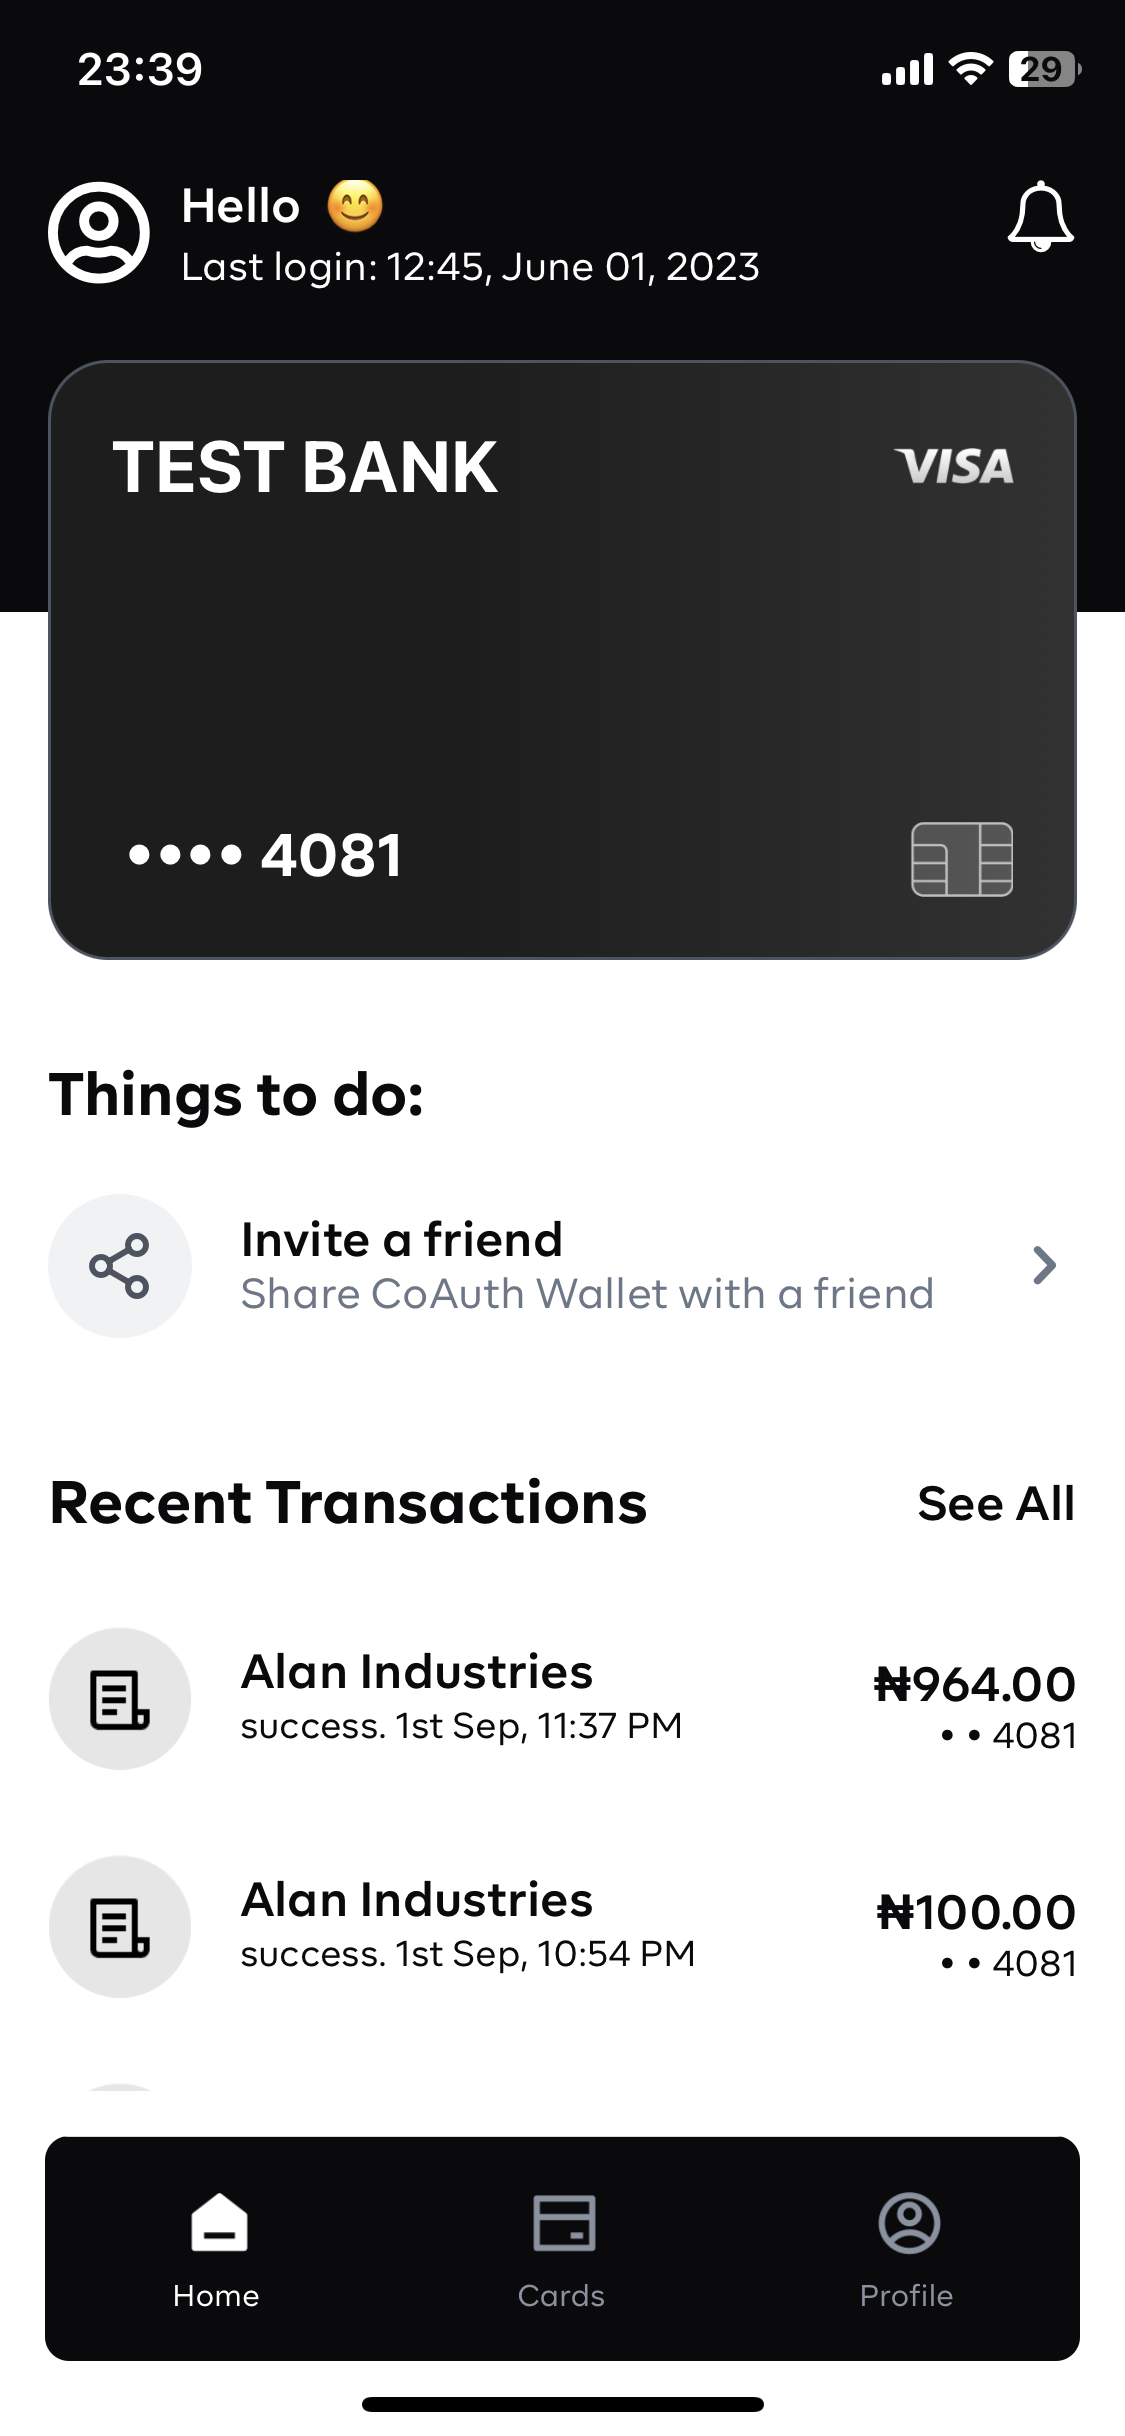
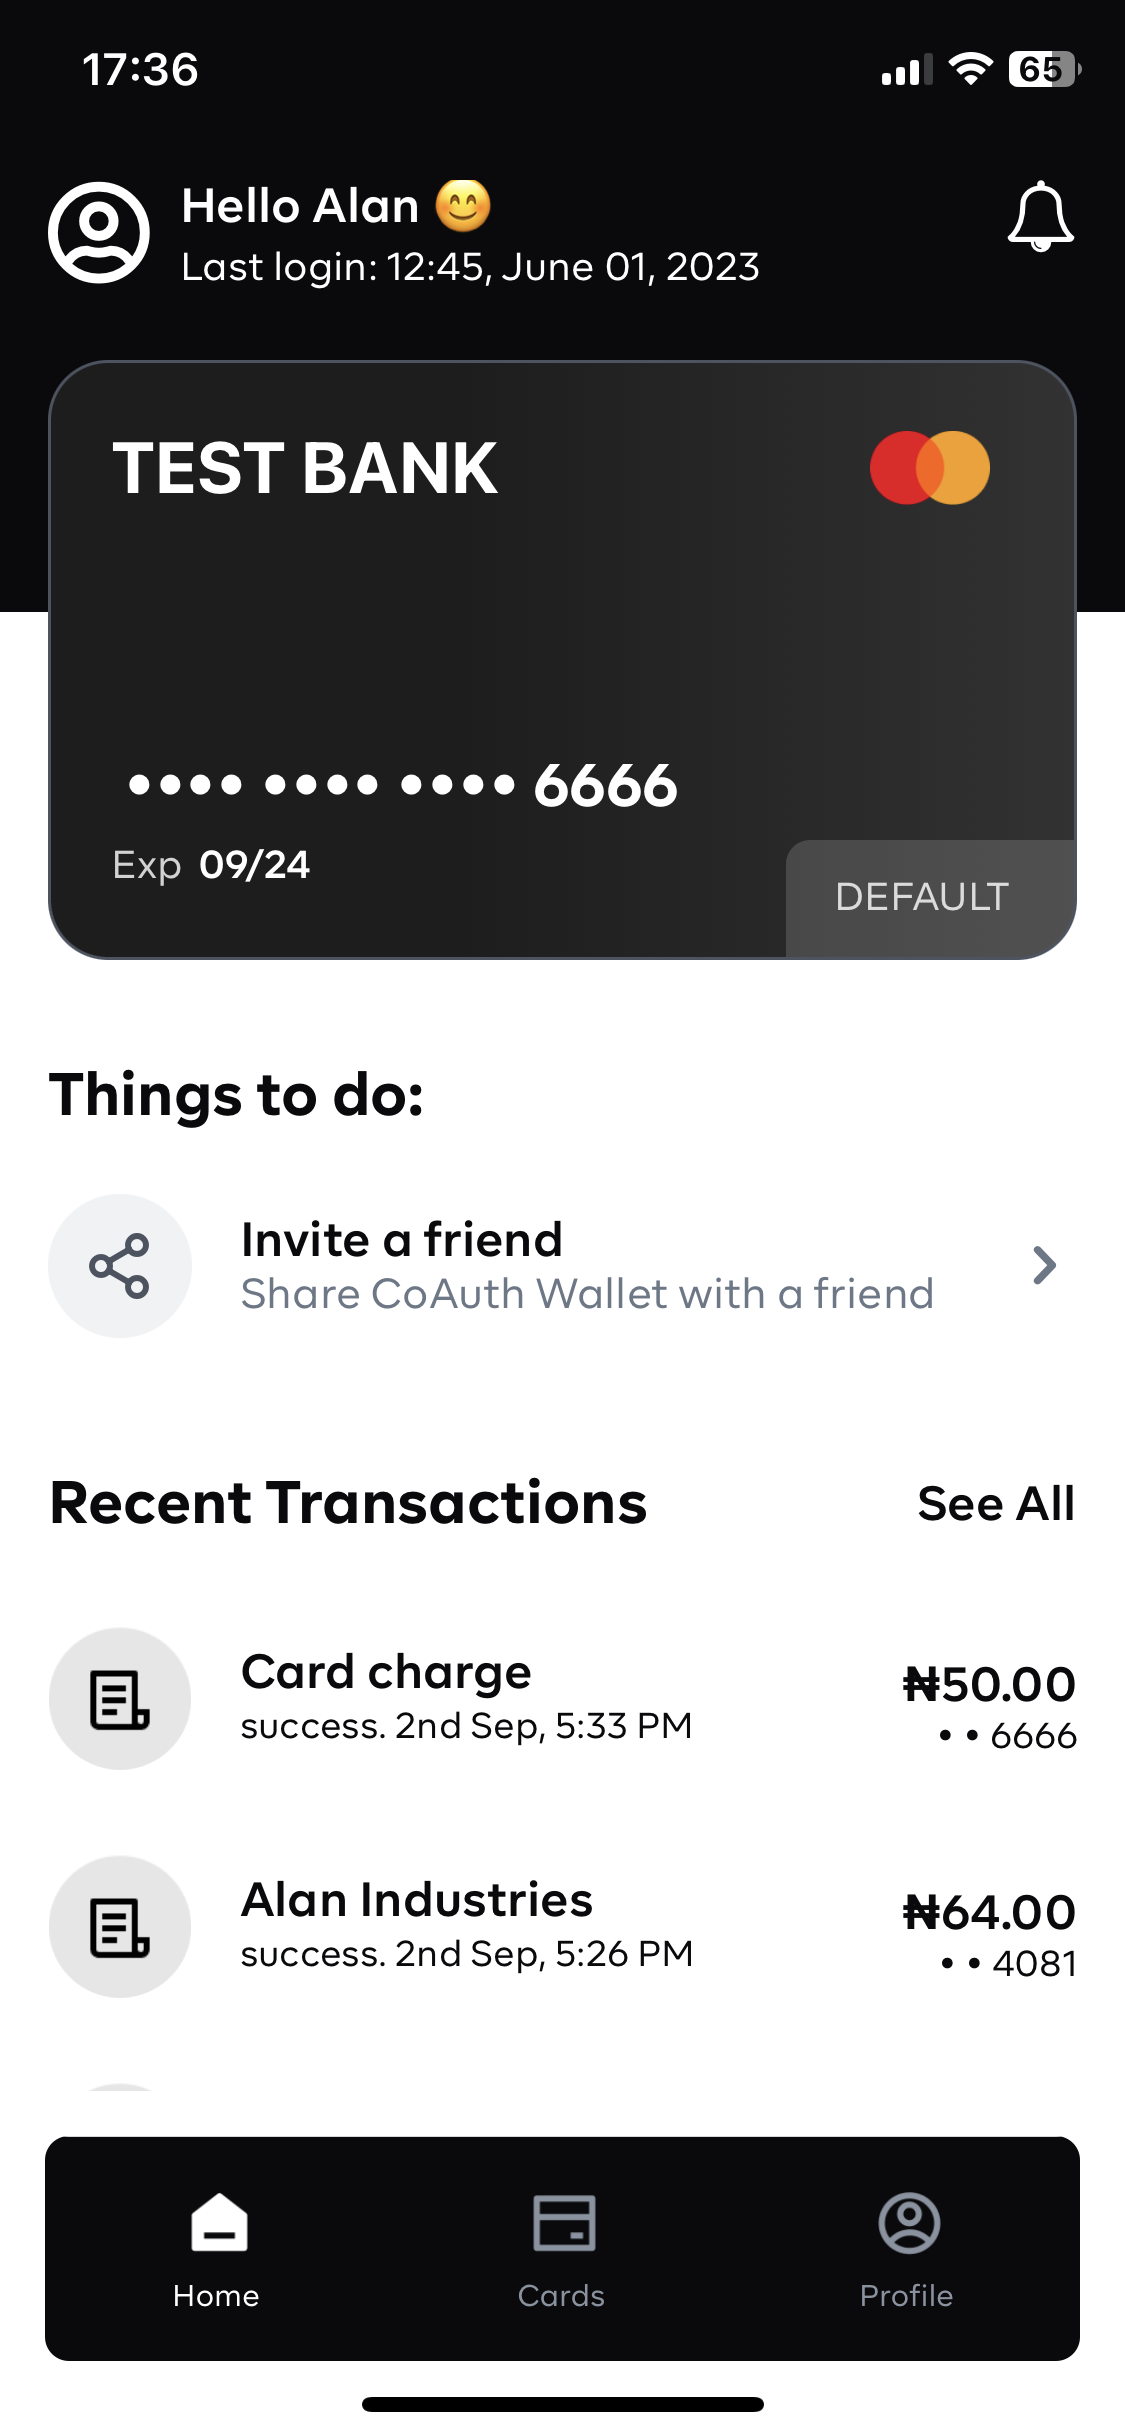
feat: add coauth website

diff --git a/index.html b/index.html
@@ -241,7 +241,11 @@
 
       <div class="px-5">
         <div class="project">
-          <h1><a href="https://coauth-website-web.vercel.app/" target="_blank">Coauth</a></h1>
+          <h1>
+            <a href="https://coauth-website-web.vercel.app/" target="_blank"
+              >Coauth</a
+            >
+          </h1>
 
           <div class="grid-3">
             <div class="grid-item">
@@ -249,12 +253,15 @@
               <h3 class="text-center mt-2">Home Page</h3>
             </div>
             <div class="grid-item">
-              <img src="images/coauth-authorization.PNG" alt="Nairabox-cinemas" />
+              <img
+                src="images/coauth-authorization.PNG"
+                alt="Nairabox-cinemas"
+              />
               <h3 class="text-center mt-2">Authorization Page</h3>
             </div>
             <div class="grid-item">
-              <img src="images/coauth-card-details.PNG" alt="Nairabox-admin" />
-              <h3 class="text-center mt-2">Card Details Page</h3>
+              <img src="images/coauth-default-card.PNG" alt="Nairabox-admin" />
+              <h3 class="text-center mt-2">Set Card Default Flow</h3>
             </div>
             <div class="grid-item">
               <img src="images/coauth-receipt.PNG" alt="Nairabox-welcome" />
@@ -280,7 +287,10 @@
               <h3 class="text-center mt-2">Swap Page</h3>
             </div>
             <div class="grid-item">
-              <img src="images/aladdin-transaction.PNG" alt="Nairabox-welcome" />
+              <img
+                src="images/aladdin-transaction.PNG"
+                alt="Nairabox-welcome"
+              />
               <h3 class="text-center mt-2">Transactions screen</h3>
             </div>
           </div>
@@ -334,6 +344,26 @@
 
         <div class="project">
           <h1>
+            <a href="https://coauth.app/" target="_blank">Coauth Website</a>
+          </h1>
+
+          <div class="grid-2">
+            <div class="grid-item">
+              <img src="images/coauth-web-home.jpg" alt="Coauth-home" />
+              <h3 class="text-center mt-2">Home Page</h3>
+            </div>
+            <div class="grid-item">
+              <img
+                src="images/coauth-web-demo.jpg"
+                alt="Coauth-demo"
+              />
+              <h3 class="text-center mt-2">Demo Page</h3>
+            </div>
+          </div>
+        </div>
+
+        <div class="project">
+          <h1>
             <a href="https://coauth-dashboard-web.vercel.app/" target="_blank"
               >Coauth Merchant Dashboard</a
             >
@@ -341,10 +371,7 @@
 
           <div class="grid-2">
             <div class="grid-item">
-              <img
-                src="images/coauth-login.jpg"
-                alt="Africweddings-home"
-              />
+              <img src="images/coauth-login.jpg" alt="Africweddings-home" />
               <h3 class="text-center mt-2">Login Page</h3>
             </div>
             <div class="grid-item">
